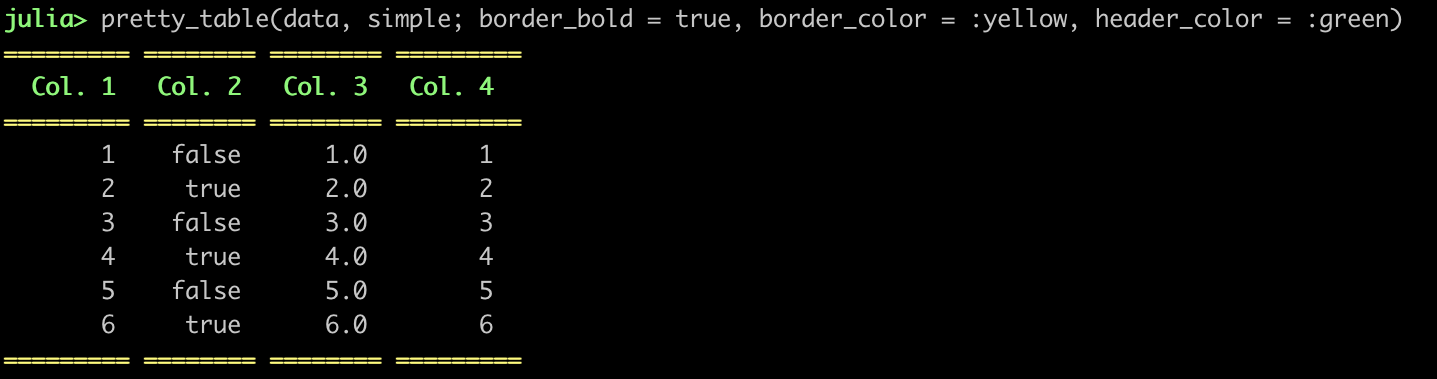
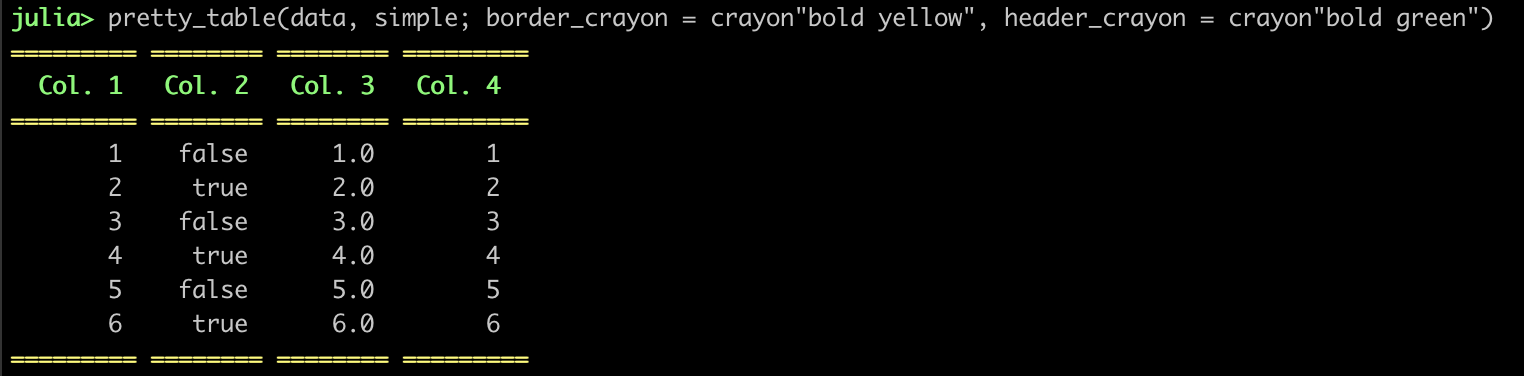
:sparkles: :warning: Add support for Crayons
Every styling option is now handle by Crayons.jl. Hence, there are
now many options to change the style of the elements. However, this
is a breaking change, since the old API could not be made
compatible with the new one.

Closes #1

diff --git a/docs/src/man/usage.md b/docs/src/man/usage.md
@@ -75,19 +75,15 @@ defaults to `stdout`.
 
 In all cases, the following keywords are available:
 
+* `border_crayon`: Crayon to print the border.
+* `header_crayon`: Crayon to print the header.
+* `subheaders_crayon`: Crayon to print sub-headers.
+* `rownum_header_crayon`: Crayon for the header of the column with the row
+                          numbers.
+* `text_crayon`: Crayon to print default text.
 * `alignment`: Select the alignment of the columns (see the section
                [Alignment](@ref)).
-* `border_bold`: If `true`, then the border will be printed in **bold**.
-                 (**Default** = `false`)
-* `border_color`: The color in which the border will be printed using the same
-                  convention as in the function `printstyled`. (**Default** =
-                  `:normal`)
 * `formatter`: See the section [Formatter](@ref).
-* `header_bold`: If `true`, then the header will be printed in **bold**.
-                 (**Default** = `false`)
-* `header_color`: The color in which the header will be printed using the same
-                  convention as in the function `printstyled`. (**Default** =
-                  `:normal`)
 * `highlighters`: A tuple with a list of highlighters (see the section
                   [Highlighters](@ref)).
 * `hlines`: A vector of `Int` indicating row numbers in which an additional
@@ -98,8 +94,32 @@ In all cases, the following keywords are available:
                       (**Default** = `false`)
 * `show_row_number`: If `true`, then a new column will be printed showing the
                      row number. (**Default** = `false`)
-* `subheaders_bold`: If `true`, then the sub-headers will be printed in
-                     **bold**. (**Default** = `false`)
-* `subheaders_color`: The color in which the sub-headers will be printed using
-                      the same convention as in the function `printstyled`.
-                      (**Default** = `:light_black`)
+
+The keywords `header_crayon` and `subheaders_crayon` can be a `Crayon` or a
+`Vector{Crayon}`. In the first case, the `Crayon` will be applied to all the
+elements. In the second, each element can have its own crayon, but the length of
+the vector must be equal to the number of columns in the data.
+
+## Crayons
+
+A `Crayon` is an object that handles a style for text printed on terminals. It
+is defined in the package
+[Crayons.jl](https://github.com/KristofferC/Crayons.jl). There are many options
+available to customize the style, such as foreground color, background color,
+bold text, etc.
+
+A `Crayon` can be created in two different ways:
+
+```julia-repl
+julia> Crayon(foreground = :blue, background = :black, bold = :true)
+
+julia> crayon"blue bg:black bold"
+```
+
+For more information, see the [Crayon.jl
+documentation](https://github.com/KristofferC/Crayons.jl/blob/master/README.md).
+
+!!! Info
+
+    The Crayon.jl package is re-exported by PrettyTables.jl. Hence, you do not
+    need `using Crayons` to create a `Crayon`.

diff --git a/docs/src/man/highlighters.md b/docs/src/man/highlighters.md
@@ -15,9 +15,7 @@ The structure contains three fields:
 * `f`: Function with the signature `f(data,i,j)` in which should return `true`
        if the element `(i,j)` in `data` must be highlighted, or `false`
        otherwise.
-* `bold`: If `true`, then the highlight style should be **bold**.
-* `color`: A symbol with the color of the highlight style using the same
-           convention as in the function `printstyled`.
+* `crayon`: Crayon with the style of a highlighted element.
 
 The function `f` must have the following signature:
 
@@ -35,6 +33,8 @@ Tuple `highlighters`.
 
 ![](../assets/ex_highlighters_00001.png)
 
+![](../assets/ex_highlighters_00002.png)
+
 !!! note
 
     If the highlighters are used together with [Formatter](@ref), then the
@@ -44,3 +44,23 @@ Tuple `highlighters`.
 
 There are a set of pre-defined highlighters (with names `hl_*`) to make the
 usage simpler. They are defined in the file `./src/predefined_highlighters.jl`.
+
+To make the syntax less cumbersome, the following helper function is available:
+
+```julia
+    function Highlighter(f; kwargs...)
+```
+
+It creates a `Highlighter` with the function `f` and pass all the keyword
+arguments `kwargs` to the `Crayon`. Hence, the following code:
+
+```julia-repl
+julia> Highlighter((data,i,j)->isodd(i), Crayon(bold = true, background = :dark_gray))
+```
+
+can be replaced by:
+
+```julia-repl
+julia> Highlighter((data,i,j)->isodd(i); bold = true, background = :dark_gray)
+```
+
